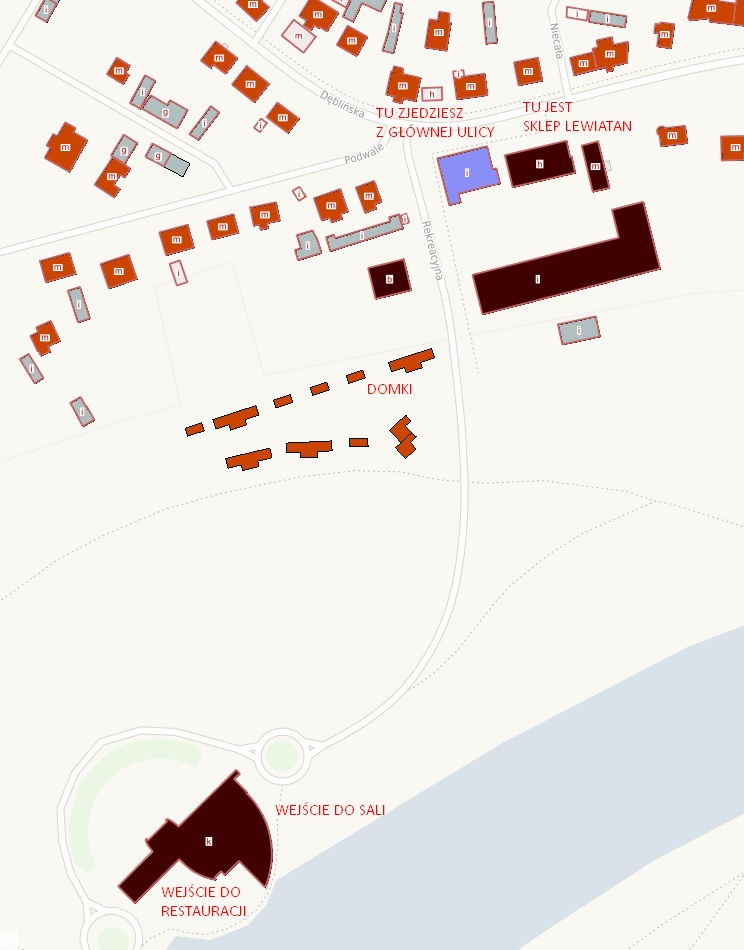
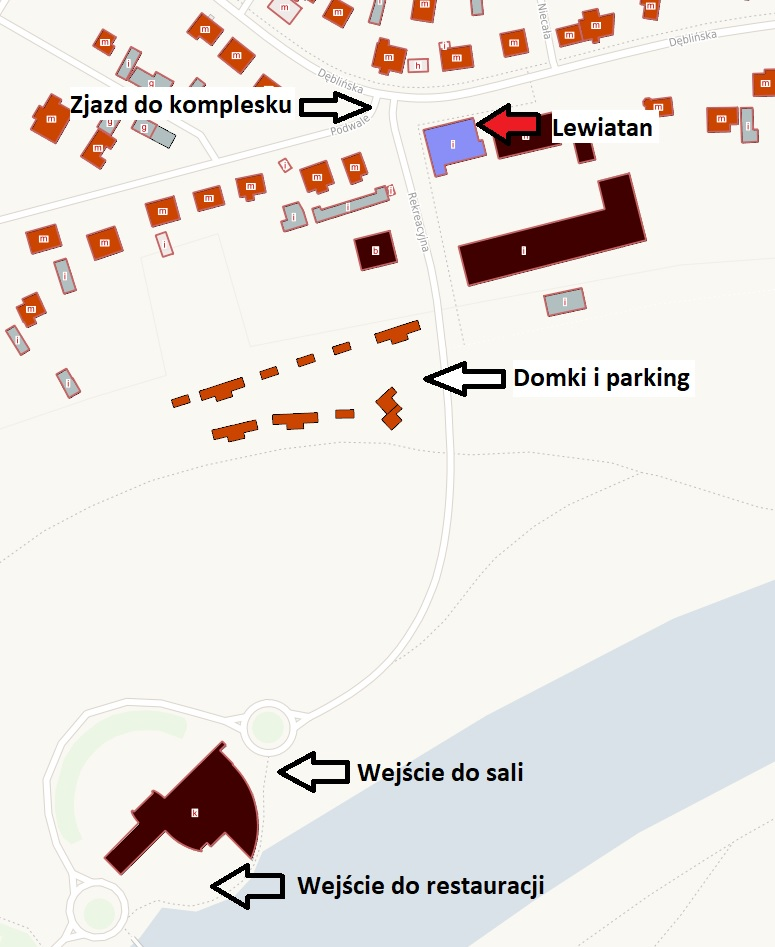
add2

diff --git a/src/components/bio.js b/src/components/bio.js
@@ -34,8 +34,7 @@ const Bio = () => {
     <div className="bio">
       <p>
         Witamy na stronie poświęconej naszemu weselu! <br></br>
-        Dowiecie się tu wszystkiego co jest Wam potrzebne aby spokojnie spędzić
-        21 października.
+        Znajdziecie tu wszystkie niezbędne informacje organizacyjne.
       </p>
     </div>
   )

diff --git a/content/blog/plan/index.md b/content/blog/plan/index.md
@@ -3,8 +3,8 @@ title: Plan Dnia
 description: O której zacznę i gdzie skończę?
 ---
 
-Wesele jest w kompleksie ["Wyspa Wisła"](https://wyspawisla.pl/) - Stężyca ul. Rekreacyjna 1.
-Również tam znajdują się domki w których bezpiecznie spędzisz noc.
+Przyjęcie Weselne odbędzie się w kompleksie ["Wyspa Wisła"](https://wyspawisla.pl/) - Stężyca ul. Rekreacyjna 1.
+Na terenie kompleksu znajdują się domki gdzie zarezerwowaliśmy dla Ciebie nocleg.
 
 > 1. Domki dostępne są od 14:00 - spokojnie więc przyjedź i zostaw swoje rzeczy.
 
@@ -12,8 +12,8 @@ Również tam znajdują się domki w których bezpiecznie spędzisz noc.
 
 > 3. Ślub zaczyna się o 16:00 w oddalonym o 5 km Kościele pw. św. Jakuba w Piotrowicach.
 
-> 4. Po kościele zapraszamy na wesele.
+> 4. Po mszy zapraszamy na przyjęcie weselne.
 
-> 5. Gdy nagle obudzisz się rano bądź spokojny. W restauracji od 10:00 do 12:00 możesz zakupić śniadanie które Cię zregeneruje.
+> 5. W niedzielę resturacja serwuje śniadania od 10:00 (płatność we własnym zakresie).
 
 ![Mapa](./PLAN.jpg)

diff --git a/content/blog/nocleg/index.md b/content/blog/nocleg/index.md
@@ -3,14 +3,14 @@ title: Nocleg
 description: Czyli wszystko co chcesz wiedzieć o domku ale boisz się spytać
 ---
 
-Wesele jest w kompleksie ["Wyspa Wisła"](https://wyspawisla.pl/) - Stężyca ul. Rekreacyjna 1.
-Również tam znajdują się domki w których bezpiecznie spędzisz noc.
+Przyjęcie Weselne odbędzie się w kompleksie ["Wyspa Wisła"](https://wyspawisla.pl/) - Stężyca ul. Rekreacyjna 1.
+Na terenie kompleksu znajdują się domki gdzie zarezerwowaliśmy dla Ciebie nocleg.
 
 > 1. Domki dostępne są od 14:00 - spokojnie więc przyjedź i zostaw swoje rzeczy.
 
 > 2. Klucze odbierzesz w restauracji. Tam dowiesz się też jaki masz przydzielony numer domku.
 
-> 3. W każdym domku zapewniono klimatyzację, prywatną łazienkę oraz aneks kuchenny z lodówką i płytą kuchenną. Domek posiada 2 sypialnie i jadalnię.
+> 3. W każdym domku zapewniono klimatyzację, prywatną łazienkę oraz aneks kuchenny z lodówką i płytą kuchenną. Domek posiada 2 sypialnie i salon.
 
 ![domek](./domek.jpg)
 ![kuchnia](./kuchnia.jpg)

diff --git a/content/blog/mapy/index.md b/content/blog/mapy/index.md
@@ -3,4 +3,6 @@ title: Mapy
 description: Gdzie to jest?
 ---
 
+Mapy zostaną zaktualizowane.
+
 ![Mapa](../plan/PLAN.jpg)
